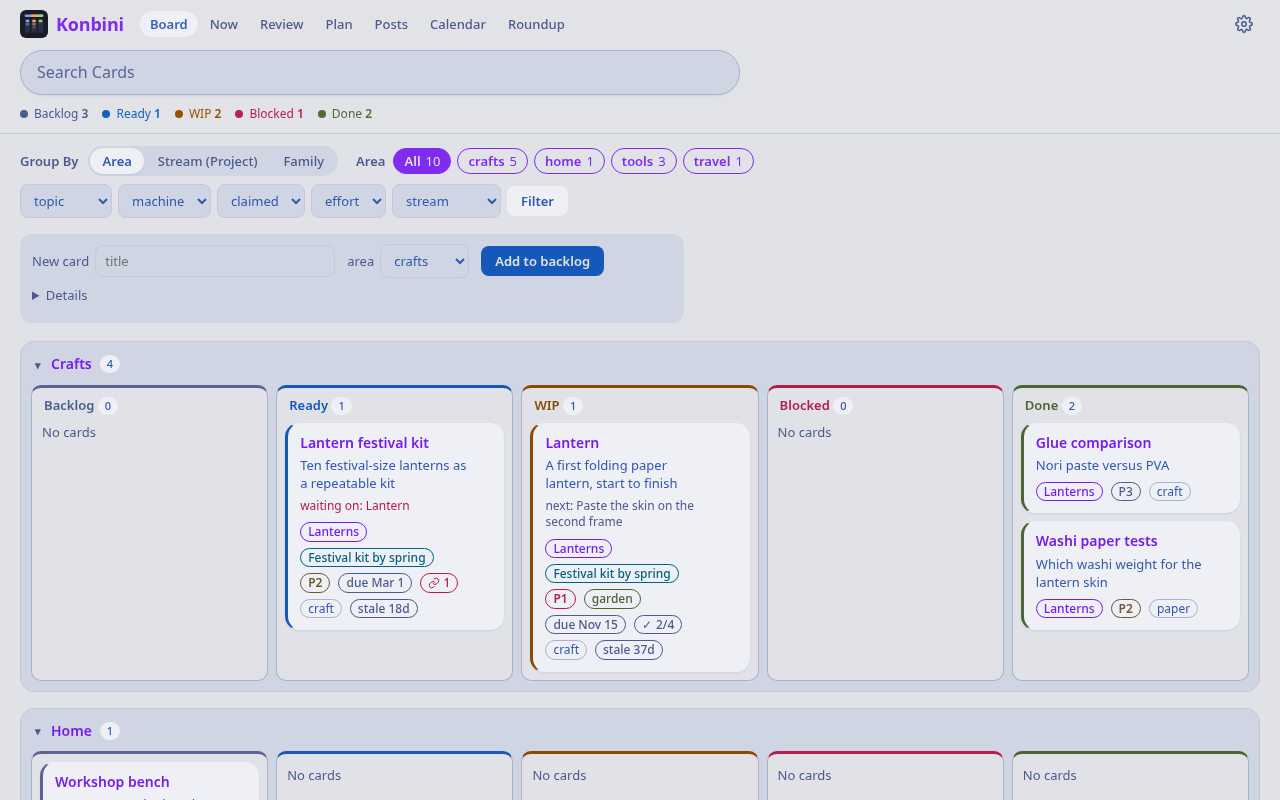
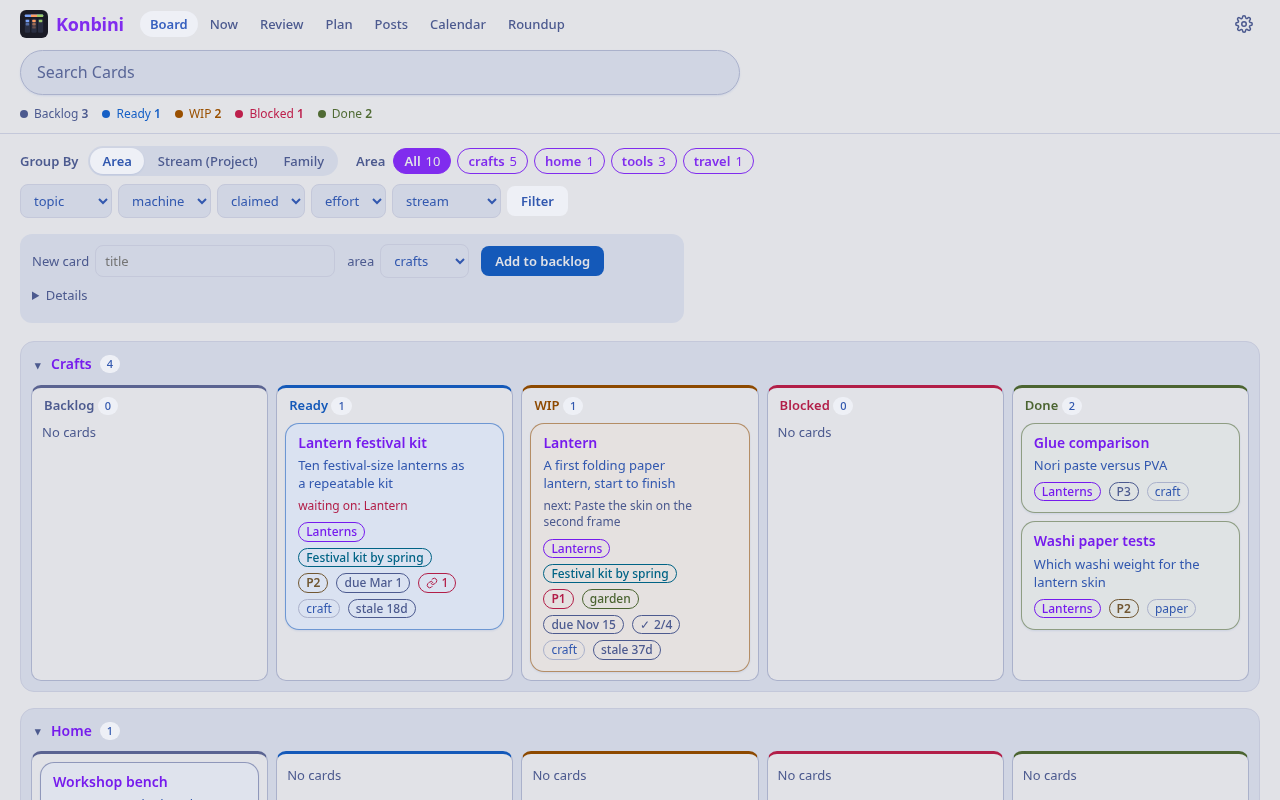
machiya: site and README: Konbini 0.20.0's board (cards tinted by column)

diff --git a/site/index.html b/site/index.html
@@ -110,10 +110,10 @@
       </div>
       <figure class="feature-shot">
         <picture class="only-light">
-          <img src="img/projects-light.webp" width="1280" height="800" loading="lazy" decoding="async" alt="Konbini's board for the sample vault: cards grouped by area in Backlog, Ready, WIP, Blocked and Done columns, with a Group By switch and Area pills above.">
+          <img src="img/projects-light.webp" width="1280" height="800" loading="lazy" decoding="async" alt="Konbini's board for the sample vault: cards grouped by area in Backlog, Ready, WIP, Blocked and Done columns, each card tinted in its column's colour, with a Group By switch and Area pills above.">
         </picture>
         <picture class="only-dark">
-          <img src="img/projects-dark.webp" width="1280" height="800" loading="lazy" decoding="async" alt="Konbini's board for the sample vault: cards grouped by area in Backlog, Ready, WIP, Blocked and Done columns, with a Group By switch and Area pills above.">
+          <img src="img/projects-dark.webp" width="1280" height="800" loading="lazy" decoding="async" alt="Konbini's board for the sample vault: cards grouped by area in Backlog, Ready, WIP, Blocked and Done columns, each card tinted in its column's colour, with a Group By switch and Area pills above.">
         </picture>
       </figure>
     </div>
